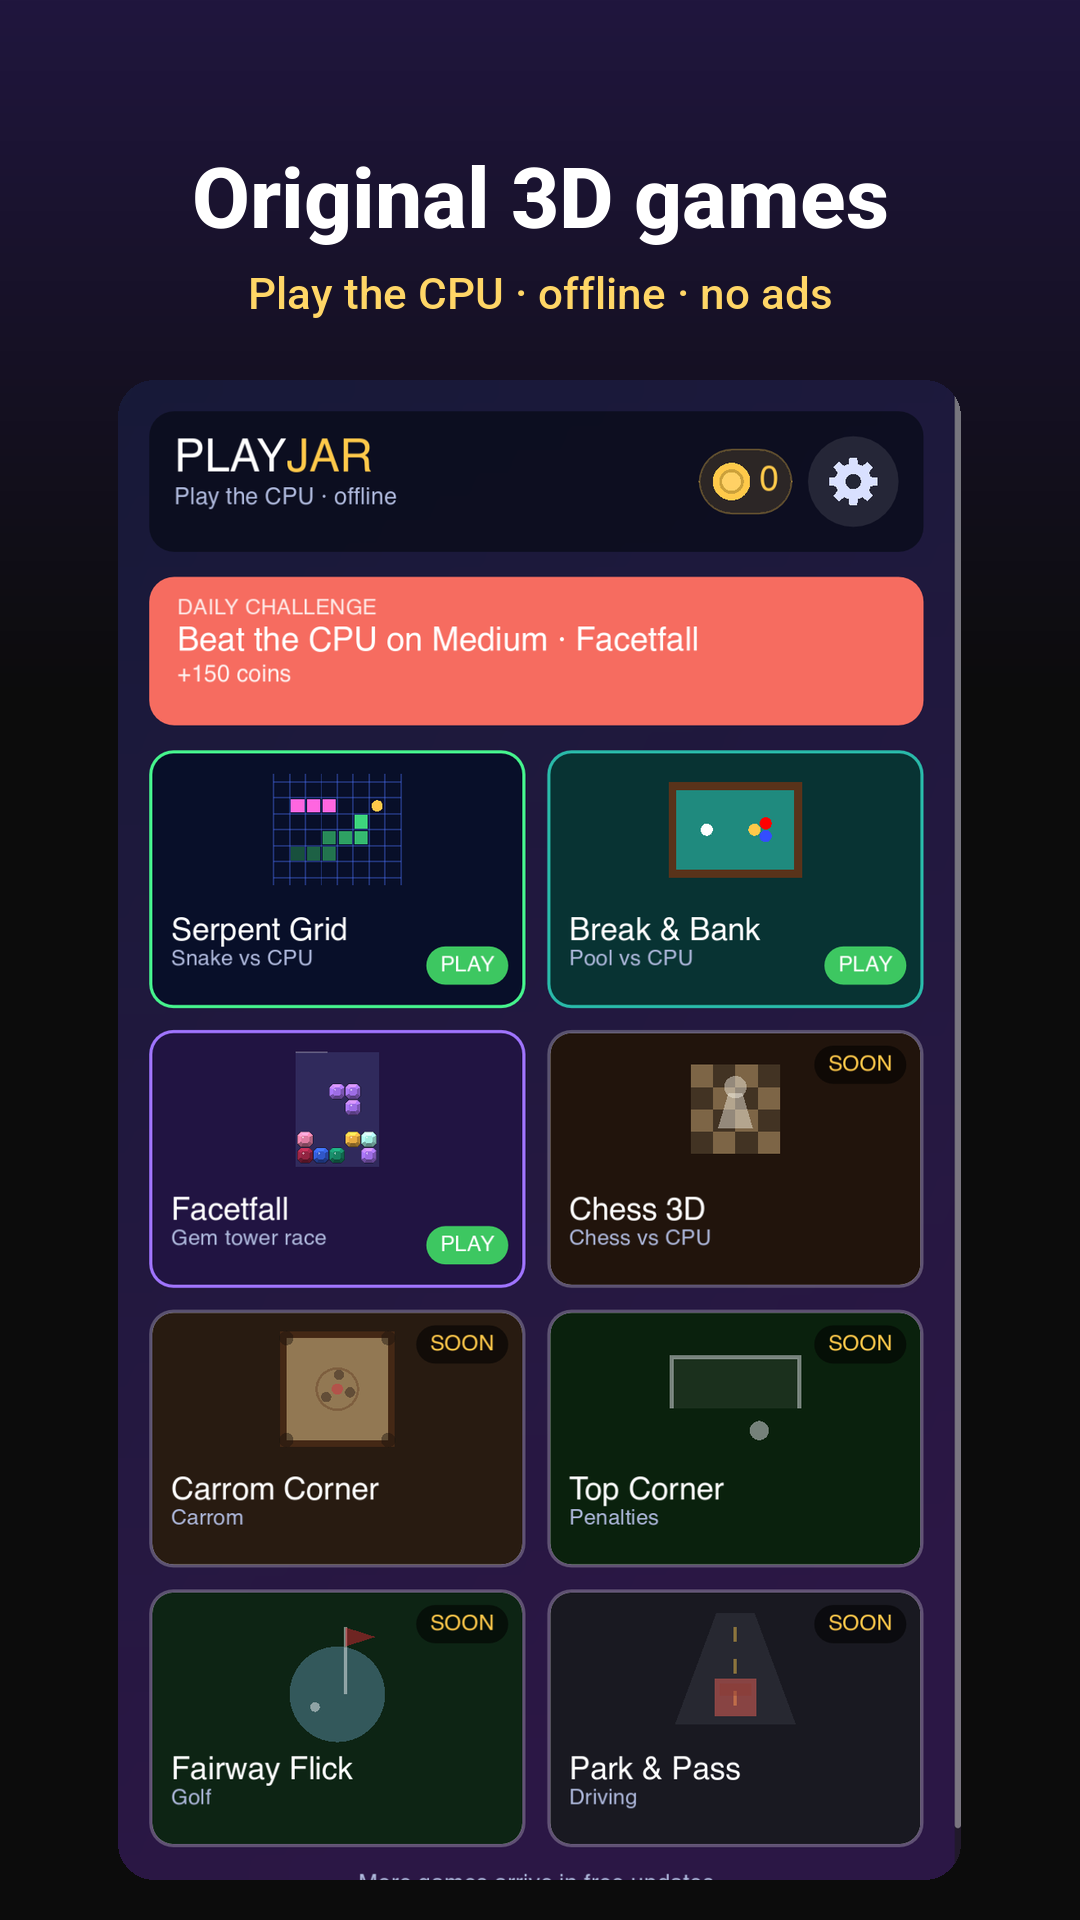
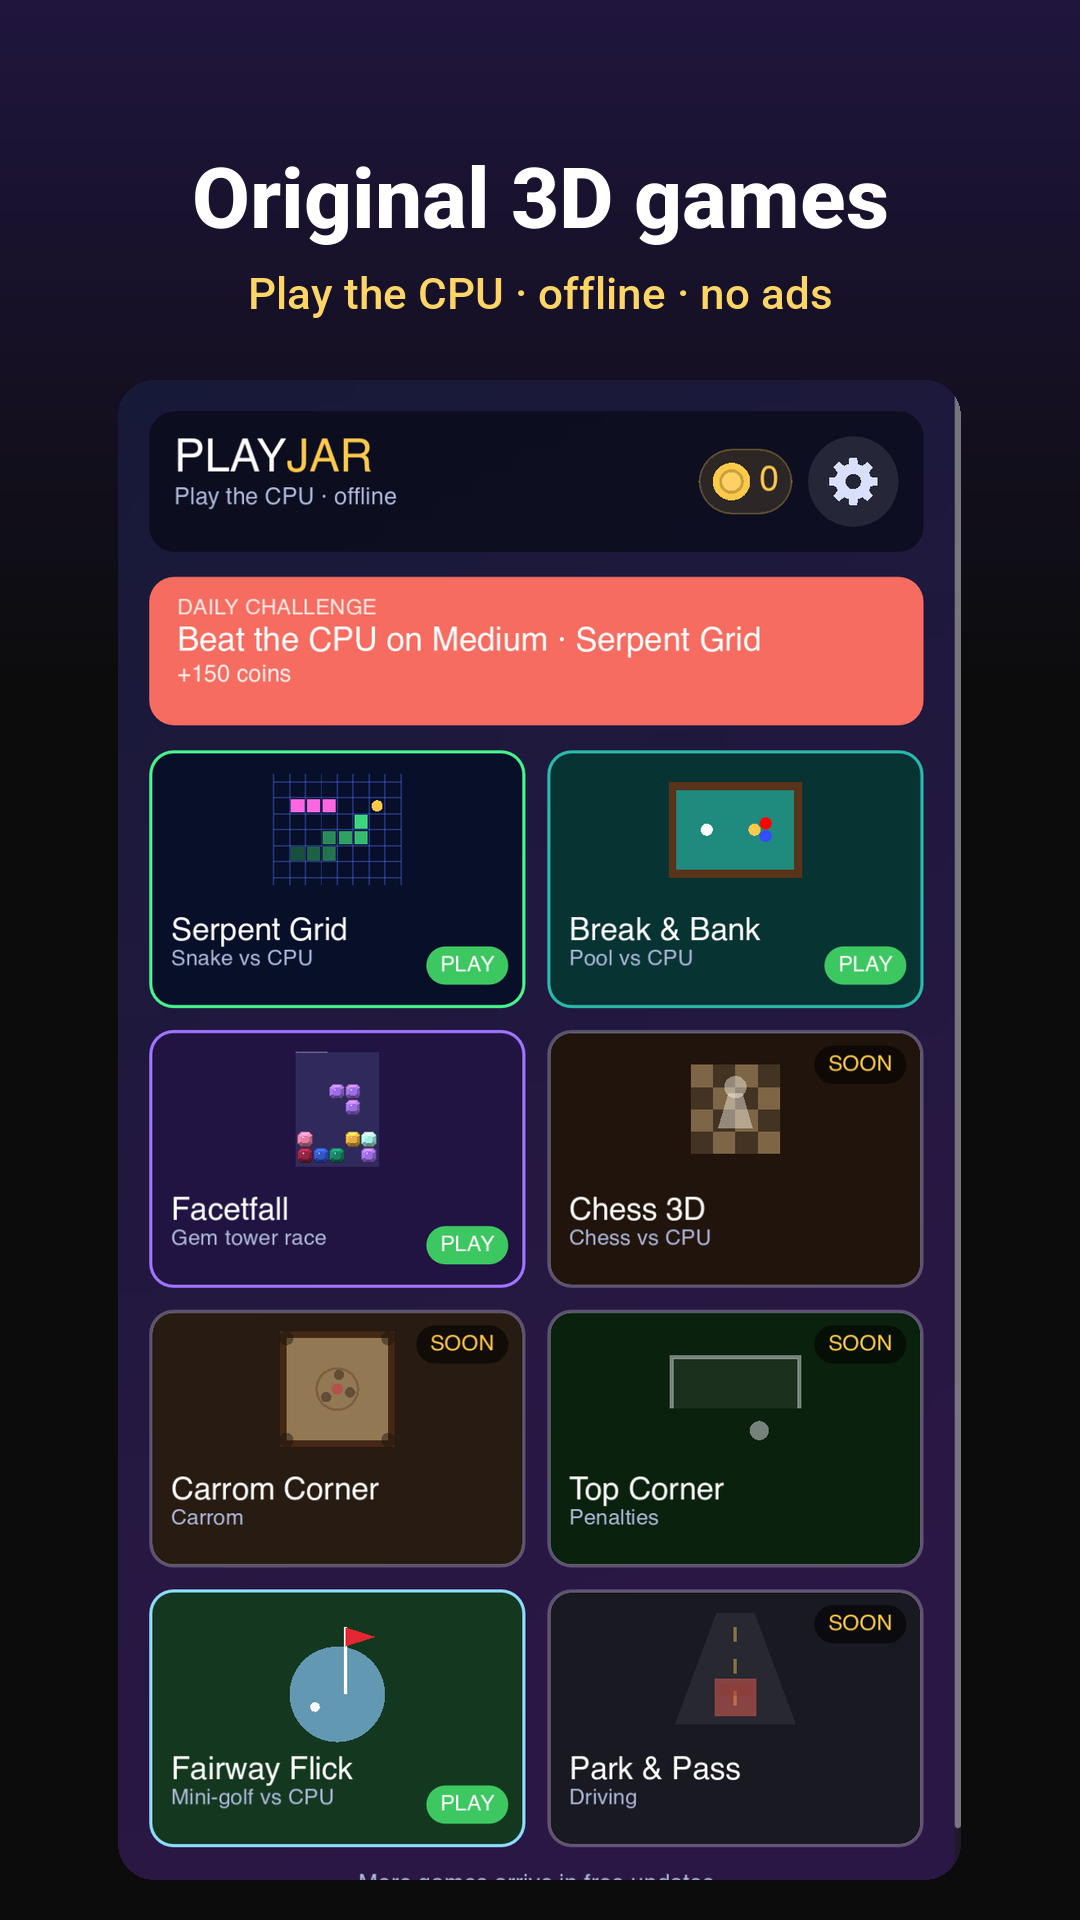
Golf CPU: Hard retuned on all 36 holes; store material with Fairway Flick
- Self-play on all four worlds (432 plays per tier): Easy 27.2 / Medium
  51.7 / Hard 73.0 % CPU wins after tightening Hard (aim 1.0 deg, speed 3 %).
- golf_selfplay.gd takes tier knob overrides for tuning runs.
- Store: 8 screenshots (hub with golf, Fairway Flick Rush, four worlds),
  listing, release notes and checklist updated.

Changed region(s): [[0.2444, 0.8125, 0.4889, 0.9688], [0.1222, 0.8438, 0.3056, 0.9688], [0.5194, 0.3125, 0.7028, 0.3438]]

diff --git a/docs/store/src/frame_shots.py b/docs/store/src/frame_shots.py
@@ -14,7 +14,9 @@ shots = [
     ("st_blocks_2.png", "03_facetfall.png", "Facetfall", "Fill rows with cut gems, race the CPU", (40, 22, 70)),
     ("st_pool_1.png", "04_break_and_bank_break.png", "Break & Bank", "Eight-ball billiards vs a smart CPU", (10, 52, 50)),
     ("st_pool_2.png", "05_break_and_bank_table.png", "Real ball physics", "Spin, cushions and pockets that feel right", (10, 52, 50)),
-    ("st_blocks_3.png", "06_facetfall_race.png", "Three difficulty levels", "Easy, Medium or Hard in every game", (40, 22, 70)),
+    ("st_golfrush_2.png", "06_fairway_flick_rush.png", "Fairway Flick", "Race three CPU golfers to the cup", (20, 60, 70)),
+    ("st_golf_volcanic_0.png", "07_fairway_flick_worlds.png", "Four worlds, 36 holes", "Wind, jumps, lava and more", (70, 34, 40)),
+    ("st_blocks_3.png", "08_facetfall_race.png", "Three difficulty levels", "Easy, Medium or Hard in every game", (40, 22, 70)),
 ]
 def font(size, weight):
     f = ImageFont.truetype(FONT, size)

diff --git a/docs/store/listing.md b/docs/store/listing.md
@@ -1,4 +1,4 @@
-# Google Play listing: Playjar v0.2.0 (Serpent Grid, Facetfall, Break & Bank)
+# Google Play listing: Playjar v0.2.0 (Serpent Grid, Facetfall, Break & Bank, Fairway Flick)
 
 Paste these into Play Console → Grow → Store presence → Main store listing.
 Never mention other companies' games or trademarks here or in keywords (see guide p. 5).
@@ -7,12 +7,12 @@ Never mention other companies' games or trademarks here or in keywords (see guid
 Playjar
 
 ## Short description (≤ 80)
-Snake, pool and gem races vs a smart CPU. Original 3D games, offline, no ads.
+Snake, pool, mini-golf and gem races vs a smart CPU. Offline, no ads.
 
 ## Full description (≤ 4000)
 Playjar is a growing collection of original 3D mini-games you play against the computer: offline, with no ads and no account.
 
-Three games are ready today:
+Four games are ready today:
 
 SERPENT GRID: a head-to-head snake duel on a floating neon grid
 • Swipe anywhere to turn; quick double swipes make tight U-turns.
@@ -29,6 +29,12 @@ BREAK & BANK: eight-ball billiards against a CPU that thinks like a player
 • Real ball physics: spin, cushion bounces and pockets behave as you expect.
 • Casual 8 rules with ball in hand after a foul. Play a best-of-three match.
 
+FAIRWAY FLICK: mini-golf races against three CPU golfers
+• Drag back and let go to putt; an aim guide shows where the ball will go.
+• Rush: everyone plays the same hole at once, and the first ball in the cup wins it.
+• Tour: play nine holes on your own and earn stars for par, birdies and aces.
+• Four worlds and 36 holes: a meadow, a windy coast, a canyon of big jumps and a volcano with lava.
+
 In every game
 • Three difficulty levels: Easy, Medium and Hard.
 • Matches take a few minutes, so they fit any break.
@@ -36,7 +42,7 @@ In every game
 • Short how-to-play cards the first time you open a game.
 • Original music and sound, with separate switches for music, sound effects and vibration.
 
-More original games (golf, chess, carrom, penalties and driving) are on the way in free updates.
+More original games (chess, carrom, penalties and driving) are on the way in free updates.
 
 No ads. No in-app purchases. No internet permission. Your progress stays on your phone.
 
@@ -53,7 +59,7 @@ No ads. No in-app purchases. No internet permission. Your progress stays on your
 |---|---|---|
 | App icon | icon_512.png | 512×512 PNG, no alpha ✓ |
 | Feature graphic | feature_graphic_1024x500.png | 1024×500 ✓ |
-| Phone screenshots | screenshots/01_hub.png … 06_facetfall_race.png | 1080×1920 (9:16) ✓, 6 shots with captions (min 2, max 8) |
+| Phone screenshots | screenshots/01_hub.png … 08_facetfall_race.png | 1080×1920 (9:16) ✓, 8 shots with captions (min 2, max 8) |
 
 ## App content answers (Policy → App content)
 - **Privacy policy URL**: https://cloud-ball.github.io/privacy.html

diff --git a/docs/PROGRESS.md b/docs/PROGRESS.md
@@ -2,6 +2,17 @@
 
 Newest first. Claude appends: date · what changed · how to try it on a phone · open questions.
 
+## 2026-11-19 · Golf CPU retuned on all 36 holes; store material with Fairway Flick
+- Self-play (tools/golf_selfplay.gd, now with knob overrides for tuning; 432 plays per golfer
+  type on all four worlds): Easy 27.2 % / Medium 51.7 % / Hard 65.7 % CPU wins against the
+  decent-player baseline. Hard tightened (aim 1.5 -> 1.0 deg, speed 4.5 -> 3 %): 73.0 %.
+  Targets 25 / 50 / 70; Easy and Medium unchanged.
+- Store: 8 screenshots (new hub shot with the golf card, 06 Fairway Flick Rush on the coast,
+  07 "Four worlds, 36 holes" in the volcano; Facetfall race moved to 08); listing, short
+  description, release notes and checklist name Fairway Flick. Version stays 0.2.0 (code 1):
+  nothing has been uploaded yet.
+- Try it: play a Rush on Hard; the CPU golfers should now win most holes against a steady player.
+
 ## 2026-11-19 · Fixed "ObjectDB instance leaked at exit" on quit (all games)
 - Two causes, found by switching parts off one at a time (6-10 quits per test):
   - SceneRouter's threaded load used sub-threads; after any game had loaded, most quits left a

diff --git a/docs/store/release_notes.md b/docs/store/release_notes.md
@@ -1,9 +1,10 @@
 # Release notes ("What's new", ≤ 500 characters per language)
 
 ## v0.2.0 (version code 1): first closed-test release
-Three original games against the CPU:
+Four original games against the CPU:
 • Serpent Grid: a snake duel on a neon grid
 • Facetfall: a falling-gem race in a crystal tower
 • Break & Bank: eight-ball billiards with real ball physics
+• Fairway Flick: mini-golf races, 4 worlds and 36 holes
 Three difficulty levels, a daily challenge, coins and best scores. Offline, no ads.
 Thank you for testing! Tell us what felt great and what didn't.

diff --git a/docs/store/SHIP_CHECKLIST.md b/docs/store/SHIP_CHECKLIST.md
@@ -1,6 +1,6 @@
 # Ship Playjar v0.2.0: checklist
 
-Goal: Playjar v0.2.0 (hub + Serpent Grid, Facetfall, Break & Bank) live on Google Play
+Goal: Playjar v0.2.0 (hub + Serpent Grid, Facetfall, Break & Bank, Fairway Flick) live on Google Play
 **closed testing**, then production. New personal developer accounts must keep 12+ testers opted in
 for 14 days in a row before they can apply for production, so public release is ~2-3 weeks after
 the closed test starts. Fairway Flick and the other games stay hidden as "SOON" cards
